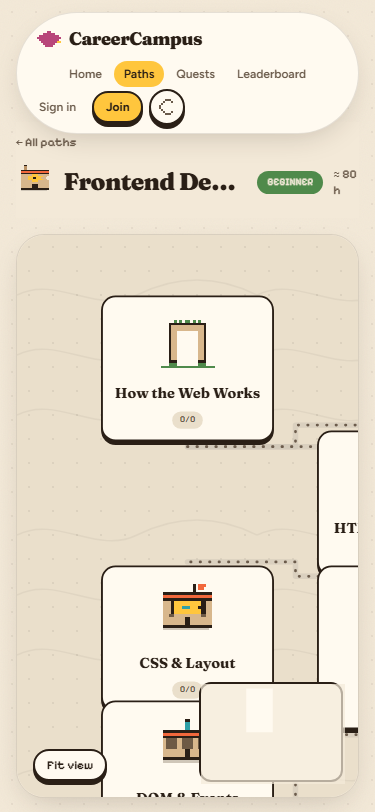
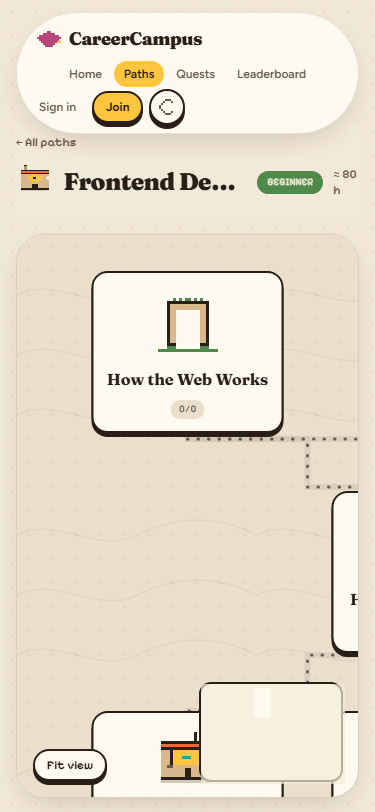
fix(trail-map): full-size scroll-first viewport + de-overlapped seed layout
User feedback round 2: the pathway should stay enlarged and scroll, and
the nodes overlapped.

- Overlap: seed rows were 150px apart but node tiles (w-48, up to ~183px
  tall) are taller, so same-column neighbours overlapped. Re-spaced both
  seeds to a 220px row pitch (columns keep x=0/240/480) and re-seeded the
  dev DB (DELETE FROM nodes + npm run seed: 22 nodes / 26 prereqs / 79
  tasks). Verified 0 overlaps via Playwright pairwise rect intersection on
  both trails.
- Viewport: open at zoom 1 centred on the trail start (guests) / current
  node (authed); zoomOnScroll=false + panOnScroll (vertical) so
  wheel/trackpad scroll the trail like a page instead of zooming;
  pinch/ctrl+wheel zooms, minZoom 0.3, Fit view + MiniMap for the overview.
- Added PanOnScrollMode to the @xyflow/react mock in RoadmapPage.test.
- Refreshed phase-2 trail-map QA screenshots; DECISIONS.md + PROGRESS.md.

Verified: Vitest 13 files / 60 tests, ESLint + Prettier clean, tsc clean;
wheel-pan at constant zoom 1.0 and zero node overlaps confirmed in-browser

diff --git a/frontend/src/components/trail/TrailMap.tsx b/frontend/src/components/trail/TrailMap.tsx
@@ -1,6 +1,6 @@
 import '@xyflow/react/dist/style.css';
 import { useEffect, useMemo, useState } from 'react';
-import { MiniMap, ReactFlow, useReactFlow } from '@xyflow/react';
+import { MiniMap, PanOnScrollMode, ReactFlow, useReactFlow } from '@xyflow/react';
 import type { Edge, EdgeTypes, Node, NodeTypes } from '@xyflow/react';
 import type { RoadmapDetail } from '@/api/types';
 import type { SceneVariant } from '@/art/scene';
@@ -21,7 +21,8 @@ const NODE_CENTER_X = 96;
 const NODE_CENTER_Y = 95;
 /** Place the focus node in the upper third so the trail ahead is visible. */
 const FOCUS_OFFSET_Y = 150;
-const START_ZOOM = 0.9;
+/** Open at full size — the trail stays enlarged; scroll to travel it. */
+const START_ZOOM = 1;
 
 interface TrailMapProps {
     detail: RoadmapDetail;
@@ -61,10 +62,11 @@ export function TrailMap({ detail, variant, authed, onOpen }: TrailMapProps): JS
         }));
     }, [detail, authed]);
 
-    // Open on a readable trailhead zoom instead of fitting the whole graph —
-    // a 12-node trail squashes to ~0.4 at laptop sizes, which is unreadable.
-    // Guests start at the first stop; authed users start at their current
-    // node. Explore by panning/zooming, or use "Fit view" for the full map.
+    // Open at full-size zoom centred on the trail start, never squashed to
+    // fit the whole graph — a 12-node trail is taller than the viewport, so
+    // the map scrolls: wheel/trackpad pan the canvas (page-like), drag pans,
+    // pinch/ctrl+wheel zooms, "Fit view" shows the full trail, MiniMap orients.
+    // Guests start at the first stop; authed users at their current node.
     useEffect(() => {
         if (centered) return;
         const targetIds = new Set(detail.edges.map((e) => e.node_id));
@@ -95,8 +97,11 @@ export function TrailMap({ detail, variant, authed, onOpen }: TrailMapProps): JS
                 nodeTypes={nodeTypes}
                 edgeTypes={edgeTypes}
                 defaultViewport={{ x: 0, y: 0, zoom: START_ZOOM }}
-                minZoom={0.15}
+                minZoom={0.3}
                 maxZoom={1.75}
+                zoomOnScroll={false}
+                panOnScroll
+                panOnScrollMode={PanOnScrollMode.Vertical}
                 nodesFocusable
                 nodesDraggable={false}
                 nodesConnectable={false}

diff --git a/frontend/src/pages/RoadmapPage.test.tsx b/frontend/src/pages/RoadmapPage.test.tsx
@@ -35,6 +35,7 @@ vi.mock('@xyflow/react', () => ({
     MiniMap: () => null,
     ReactFlowProvider: ({ children }: { children: ReactNode }) => <>{children}</>,
     useReactFlow: () => ({ fitView: vi.fn(), setCenter: vi.fn() }),
+    PanOnScrollMode: { Free: 'free', Vertical: 'vertical', Horizontal: 'horizontal' },
     Handle: () => null,
     Position: { Top: 'Top', Bottom: 'Bottom' },
 }));

diff --git a/docs/PROGRESS.md b/docs/PROGRESS.md
@@ -125,9 +125,9 @@ All four are documented in `docs/DECISIONS.md`.
   reduced-motion rule (spec §9A.9).
 - Trail Map opened at fit-all zoom — a 12-node trail squashes to ~0.4 at
   laptop sizes, so node titles were unreadable. Replaced the auto
-  fit-to-view with a trailhead start: the map now opens at 0.9 zoom centred
-  on the first stop (guests) or the learner's current node (authed); pan/zoom
-  to explore, "Fit view" for the full map, MiniMap for orientation. Node
+  fit-to-view with a trailhead start: the map now opens at full-size zoom
+  centred on the first stop (guests) or the learner's current node (authed);
+  scroll/pan to explore, "Fit view" for the full map, MiniMap for orientation. Node
   tiles grew `w-40` → `w-48` with `text-base` titles; the MiniMap got the
   sticker border, rounded corners and a fixed 144×100 size (2026-10-19).
 - The node drawer was anchored at `top: 0`, hiding the node title behind the
@@ -136,6 +136,21 @@ All four are documented in `docs/DECISIONS.md`.
   in from the right on desktop; the mobile bottom sheet is unchanged
   (2026-10-19). Frontend gate re-verified after both fixes: Vitest
   `13 files / 60 tests passed`, ESLint + Prettier clean, `tsc --noEmit` clean.
+- Trail nodes overlapped: seed rows were 150px apart but node tiles (w-48,
+  up to ~183px tall with two-line titles) are taller than that, so
+  same-column neighbours touched/overlapped. Re-spaced both seeds to 220px
+  row pitch (columns keep x = 0/240/480) and re-seeded the dev DB
+  (`DELETE FROM nodes` — all children cascade, no user progress yet — then
+  `npm run seed`: 22 nodes / 26 prereqs / 79 tasks, same counts as the gate).
+  Verified with a Playwright pairwise node-rect intersection check: 0
+  overlaps on both trails (2026-10-19).
+- Trail Map interaction: the map now opens at **zoom 1** (full-size nodes,
+  never squashed to fit) and the trail travels by **scrolling** —
+  `zoomOnScroll={false}` + `panOnScroll` + `panOnScrollMode={Vertical}` so
+  wheel/trackpad pan like a page (verified: wheel pans at constant zoom
+  1.0); pinch/ctrl+wheel still zooms, drag pans, `minZoom` raised to 0.3 so
+  the trail can't be zoomed unreadable, "Fit view" shows the full trail
+  (2026-10-19).
 
 ### Handoff
 - Read-only content flow is done: landing → catalog → Trail Map, guest and

diff --git a/docs/DECISIONS.md b/docs/DECISIONS.md
@@ -137,3 +137,15 @@ Running log of decisions made where `spec.md` was ambiguous or silent (spec §15
   (pixel skeleton shimmer, spec §9A.4/§9A.9) is added to the
   `prefers-reduced-motion: reduce` rule alongside `.trail-ants`, so no
   decorative animation runs for reduced-motion users.
+- **Trail Map viewport: full-size, scroll-first (user feedback, 2026-10-19).**
+  The trails are taller than the viewport (12-node trail ≈ 1.7k flow px), and
+  auto fit-to-view squashed them to ~0.4 at laptop sizes — titles unreadable;
+  wheel-zoom then shrank the trail further, which read as a bug. Decision:
+  open at **zoom 1** centred on the trail start (guests) or the learner's
+  current node (authed); `zoomOnScroll={false}` + `panOnScroll` (vertical)
+  make wheel/trackpad pan the canvas like scrolling a page; pinch/ctrl+wheel
+  still zooms (`minZoom` 0.3 so the trail can't be shrunk unreadable), drag
+  pans, "Fit view" + MiniMap give the overview. Seed rows re-spaced to a
+  220px pitch (node tiles are up to ~183px tall) so same-column nodes never
+  overlap — verified with a Playwright pairwise node-rect intersection check
+  (0 overlaps on both trails).
